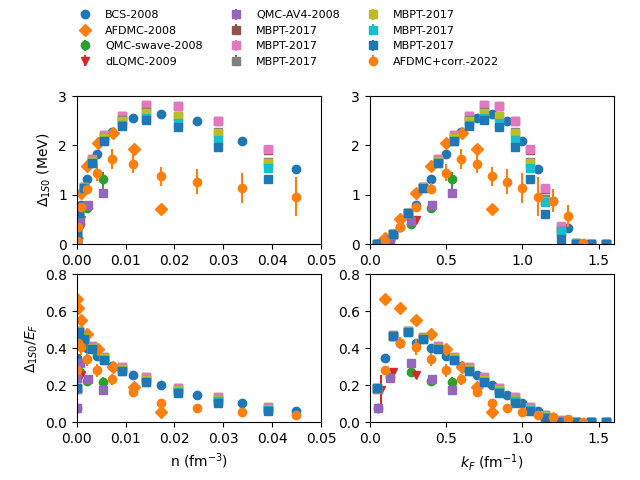
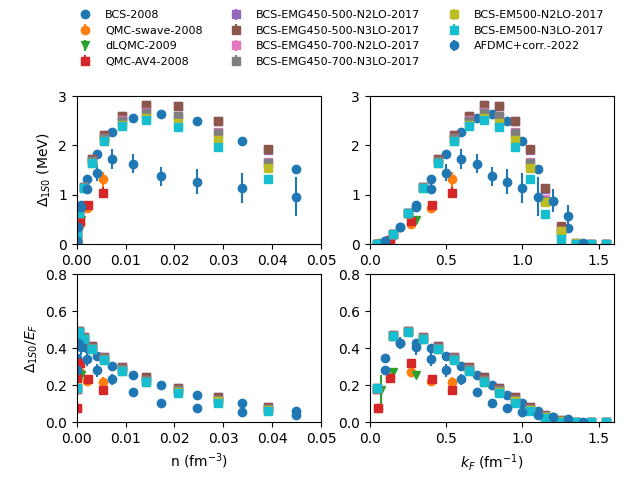
New legend for 2017 BCS gap calculations

diff --git a/version1.0/nucleardatapy/matter/setup_micro_gap.py b/version1.0/nucleardatapy/matter/setup_micro_gap.py
@@ -15,8 +15,7 @@ def micro_gap_models():
     """
     Return a list with the name of the models available in this toolkit and \
     print them all on the prompt. These models are the following ones: \
-    '2008-BCS-NM', '2008-AFDMC-NM', \
-    '2008-QMC-NM-swave', '2009-DLQMC-NM', '2010-QMC-NM-AV4', '2017-MBPT-NM-GAP-EMG-450-500-N2LO', \
+    '2008-BCS-NM', '2008-QMC-NM-swave', '2009-DLQMC-NM', '2010-QMC-NM-AV4', '2017-MBPT-NM-GAP-EMG-450-500-N2LO', \
     '2017-MBPT-NM-GAP-EMG-450-500-N3LO', '2017-MBPT-NM-GAP-EMG-450-700-N2LO', \
     '2017-MBPT-NM-GAP-EMG-450-700-N3LO', '2017-MBPT-NM-GAP-EM-500-N2LO', '2017-MBPT-NM-GAP-EM-500-N3LO', \
     '2022-AFDMC-NM' \
@@ -27,11 +26,10 @@ def micro_gap_models():
     #
     if nuda.env.verb: print("\nEnter micro_gap_models()")
     #
-    models = [ '2008-BCS-NM', '2008-AFDMC-NM', \
-             '2008-QMC-NM-swave', '2009-DLQMC-NM', '2010-QMC-NM-AV4', '2017-MBPT-NM-GAP-EMG-450-500-N2LO', \
-             '2017-MBPT-NM-GAP-EMG-450-500-N3LO', '2017-MBPT-NM-GAP-EMG-450-700-N2LO', \
-             '2017-MBPT-NM-GAP-EMG-450-700-N3LO', '2017-MBPT-NM-GAP-EM-500-N2LO', '2017-MBPT-NM-GAP-EM-500-N3LO', \
-             '2022-AFDMC-NM' ]
+    models = [ '2008-BCS-NM', '2008-QMC-NM-swave', '2009-DLQMC-NM', '2010-QMC-NM-AV4', '2017-MBPT-NM-GAP-EMG-450-500-N2LO', \
+            '2017-MBPT-NM-GAP-EMG-450-500-N3LO', '2017-MBPT-NM-GAP-EMG-450-700-N2LO', \
+            '2017-MBPT-NM-GAP-EMG-450-700-N3LO', '2017-MBPT-NM-GAP-EM-500-N2LO', '2017-MBPT-NM-GAP-EM-500-N3LO', \
+            '2022-AFDMC-NM' ]
     if nuda.env.verb: print('models available in the toolkit:',models)
     models_lower = [ item.lower() for item in models ]
     #
@@ -46,8 +44,7 @@ class setupMicroGap():
 
     This choice is defined in `model`, which can chosen among \
     the following choices: \
-    '2008-BCS-NM', '2008-AFDMC-NM', \
-    '2008-QMC-NM-swave', '2009-DLQMC-NM', '2010-QMC-NM-AV4', '2017-MBPT-NM-GAP-EMG-450-500-N2LO', \
+    '2008-BCS-NM', '2008-QMC-NM-swave', '2009-DLQMC-NM', '2010-QMC-NM-AV4', '2017-MBPT-NM-GAP-EMG-450-500-N2LO', \
     '2017-MBPT-NM-GAP-EMG-450-500-N3LO', '2017-MBPT-NM-GAP-EMG-450-700-N2LO', \
     '2017-MBPT-NM-GAP-EMG-450-700-N3LO', '2017-MBPT-NM-GAP-EM-500-N2LO', '2017-MBPT-NM-GAP-EM-500-N3LO', \
     '2022-AFDMC-NM' \
@@ -177,26 +174,32 @@ class setupMicroGap():
             self.every = 2
             self.err = True
             if model.lower() == '2017-mbpt-nm-gap-emg-450-500-n2lo':
+                self.label = 'BCS-EMG450-500-N2LO-2017'
                 file_effmass = os.path.join(nuda.param.path_data,'matter/micro/2017-Drischler/N3LO_EGM450_500_effmass_1S0_HF_spectrum_N2LO_3N_forces.csv')
                 file_1s0 = os.path.join(nuda.param.path_data,'matter/micro/2017-Drischler/N3LO_EGM450_500_gap_1S0_HF_spectrum_N2LO_3N_forces.csv')
                 file_3pf2 = os.path.join(nuda.param.path_data,'matter/micro/2017-Drischler/N3LO_EGM450_500_gap_3PF2_HF_spectrum_N2LO_3N_forces.csv')
             elif model.lower() == '2017-mbpt-nm-gap-emg-450-500-n3lo':
+                self.label = 'BCS-EMG450-500-N3LO-2017'
                 file_effmass = os.path.join(nuda.param.path_data,'matter/micro/2017-Drischler/N3LO_EGM450_500_effmass_1S0_HF_spectrum_N3LO_3N_forces.csv')
                 file_1s0 = os.path.join(nuda.param.path_data,'matter/micro/2017-Drischler/N3LO_EGM450_500_gap_1S0_HF_spectrum_N3LO_3N_forces.csv')
                 file_3pf2 = os.path.join(nuda.param.path_data,'matter/micro/2017-Drischler/N3LO_EGM450_500_gap_3PF2_HF_spectrum_N3LO_3N_forces.csv')
             elif model.lower() == '2017-mbpt-nm-gap-emg-450-700-n2lo':
+                self.label = 'BCS-EMG450-700-N2LO-2017'
                 file_effmass = os.path.join(nuda.param.path_data,'matter/micro/2017-Drischler/N3LO_EGM450_700_effmass_1S0_HF_spectrum_N2LO_3N_forces.csv')
                 file_1s0 = os.path.join(nuda.param.path_data,'matter/micro/2017-Drischler/N3LO_EGM450_700_gap_1S0_HF_spectrum_N2LO_3N_forces.csv')
                 file_3pf2 = os.path.join(nuda.param.path_data,'matter/micro/2017-Drischler/N3LO_EGM450_700_gap_3PF2_HF_spectrum_N2LO_3N_forces.csv')
             elif model.lower() == '2017-mbpt-nm-gap-emg-450-700-n3lo':
+                self.label = 'BCS-EMG450-700-N3LO-2017'
                 file_effmass = os.path.join(nuda.param.path_data,'matter/micro/2017-Drischler/N3LO_EGM450_700_effmass_1S0_HF_spectrum_N3LO_3N_forces.csv')
                 file_1s0 = os.path.join(nuda.param.path_data,'matter/micro/2017-Drischler/N3LO_EGM450_700_gap_1S0_HF_spectrum_N3LO_3N_forces.csv')
                 file_3pf2 = os.path.join(nuda.param.path_data,'matter/micro/2017-Drischler/N3LO_EGM450_700_gap_3PF2_HF_spectrum_N3LO_3N_forces.csv')
             elif model.lower() == '2017-mbpt-nm-gap-em-500-n2lo':
+                self.label = 'BCS-EM500-N2LO-2017'
                 file_effmass = os.path.join(nuda.param.path_data,'matter/micro/2017-Drischler/N3LO_EM500_effmass_1S0_HF_spectrum_N2LO_3N_forces.csv')
                 file_1s0 = os.path.join(nuda.param.path_data,'matter/micro/2017-Drischler/N3LO_EM500_gap_1S0_HF_spectrum_N2LO_3N_forces.csv')
                 file_3pf2 = os.path.join(nuda.param.path_data,'matter/micro/2017-Drischler/N3LO_EM500_gap_3PF2_HF_spectrum_N2LO_3N_forces.csv')
             elif model.lower() == '2017-mbpt-nm-gap-em-500-n3lo':
+                self.label = 'BCS-EM500-N3LO-2017'
                 file_effmass = os.path.join(nuda.param.path_data,'matter/micro/2017-Drischler/N3LO_EM500_effmass_1S0_HF_spectrum_N3LO_3N_forces.csv')
                 file_1s0 = os.path.join(nuda.param.path_data,'matter/micro/2017-Drischler/N3LO_EM500_gap_1S0_HF_spectrum_N3LO_3N_forces.csv')
                 file_3pf2 = os.path.join(nuda.param.path_data,'matter/micro/2017-Drischler/N3LO_EM500_gap_3PF2_HF_spectrum_N3LO_3N_forces.csv')
@@ -204,7 +207,6 @@ class setupMicroGap():
                 print('Reads file_effmass:',file_in_effmass)
                 print('Reads file_1s0:    ',file_in_1s0)
                 print('Reads file_3pf2:   ',file_in_3pf2)
-            self.label = 'MBPT-2017'
             self.nm_kfn_effmass, effmass_lo, effmass_up \
                 = np.loadtxt( file_effmass, usecols = (0, 1, 2), delimiter=',', comments='#', unpack = True)
             self.nm_den_effmass = nuda.den_n( self.nm_kfn_effmass )
